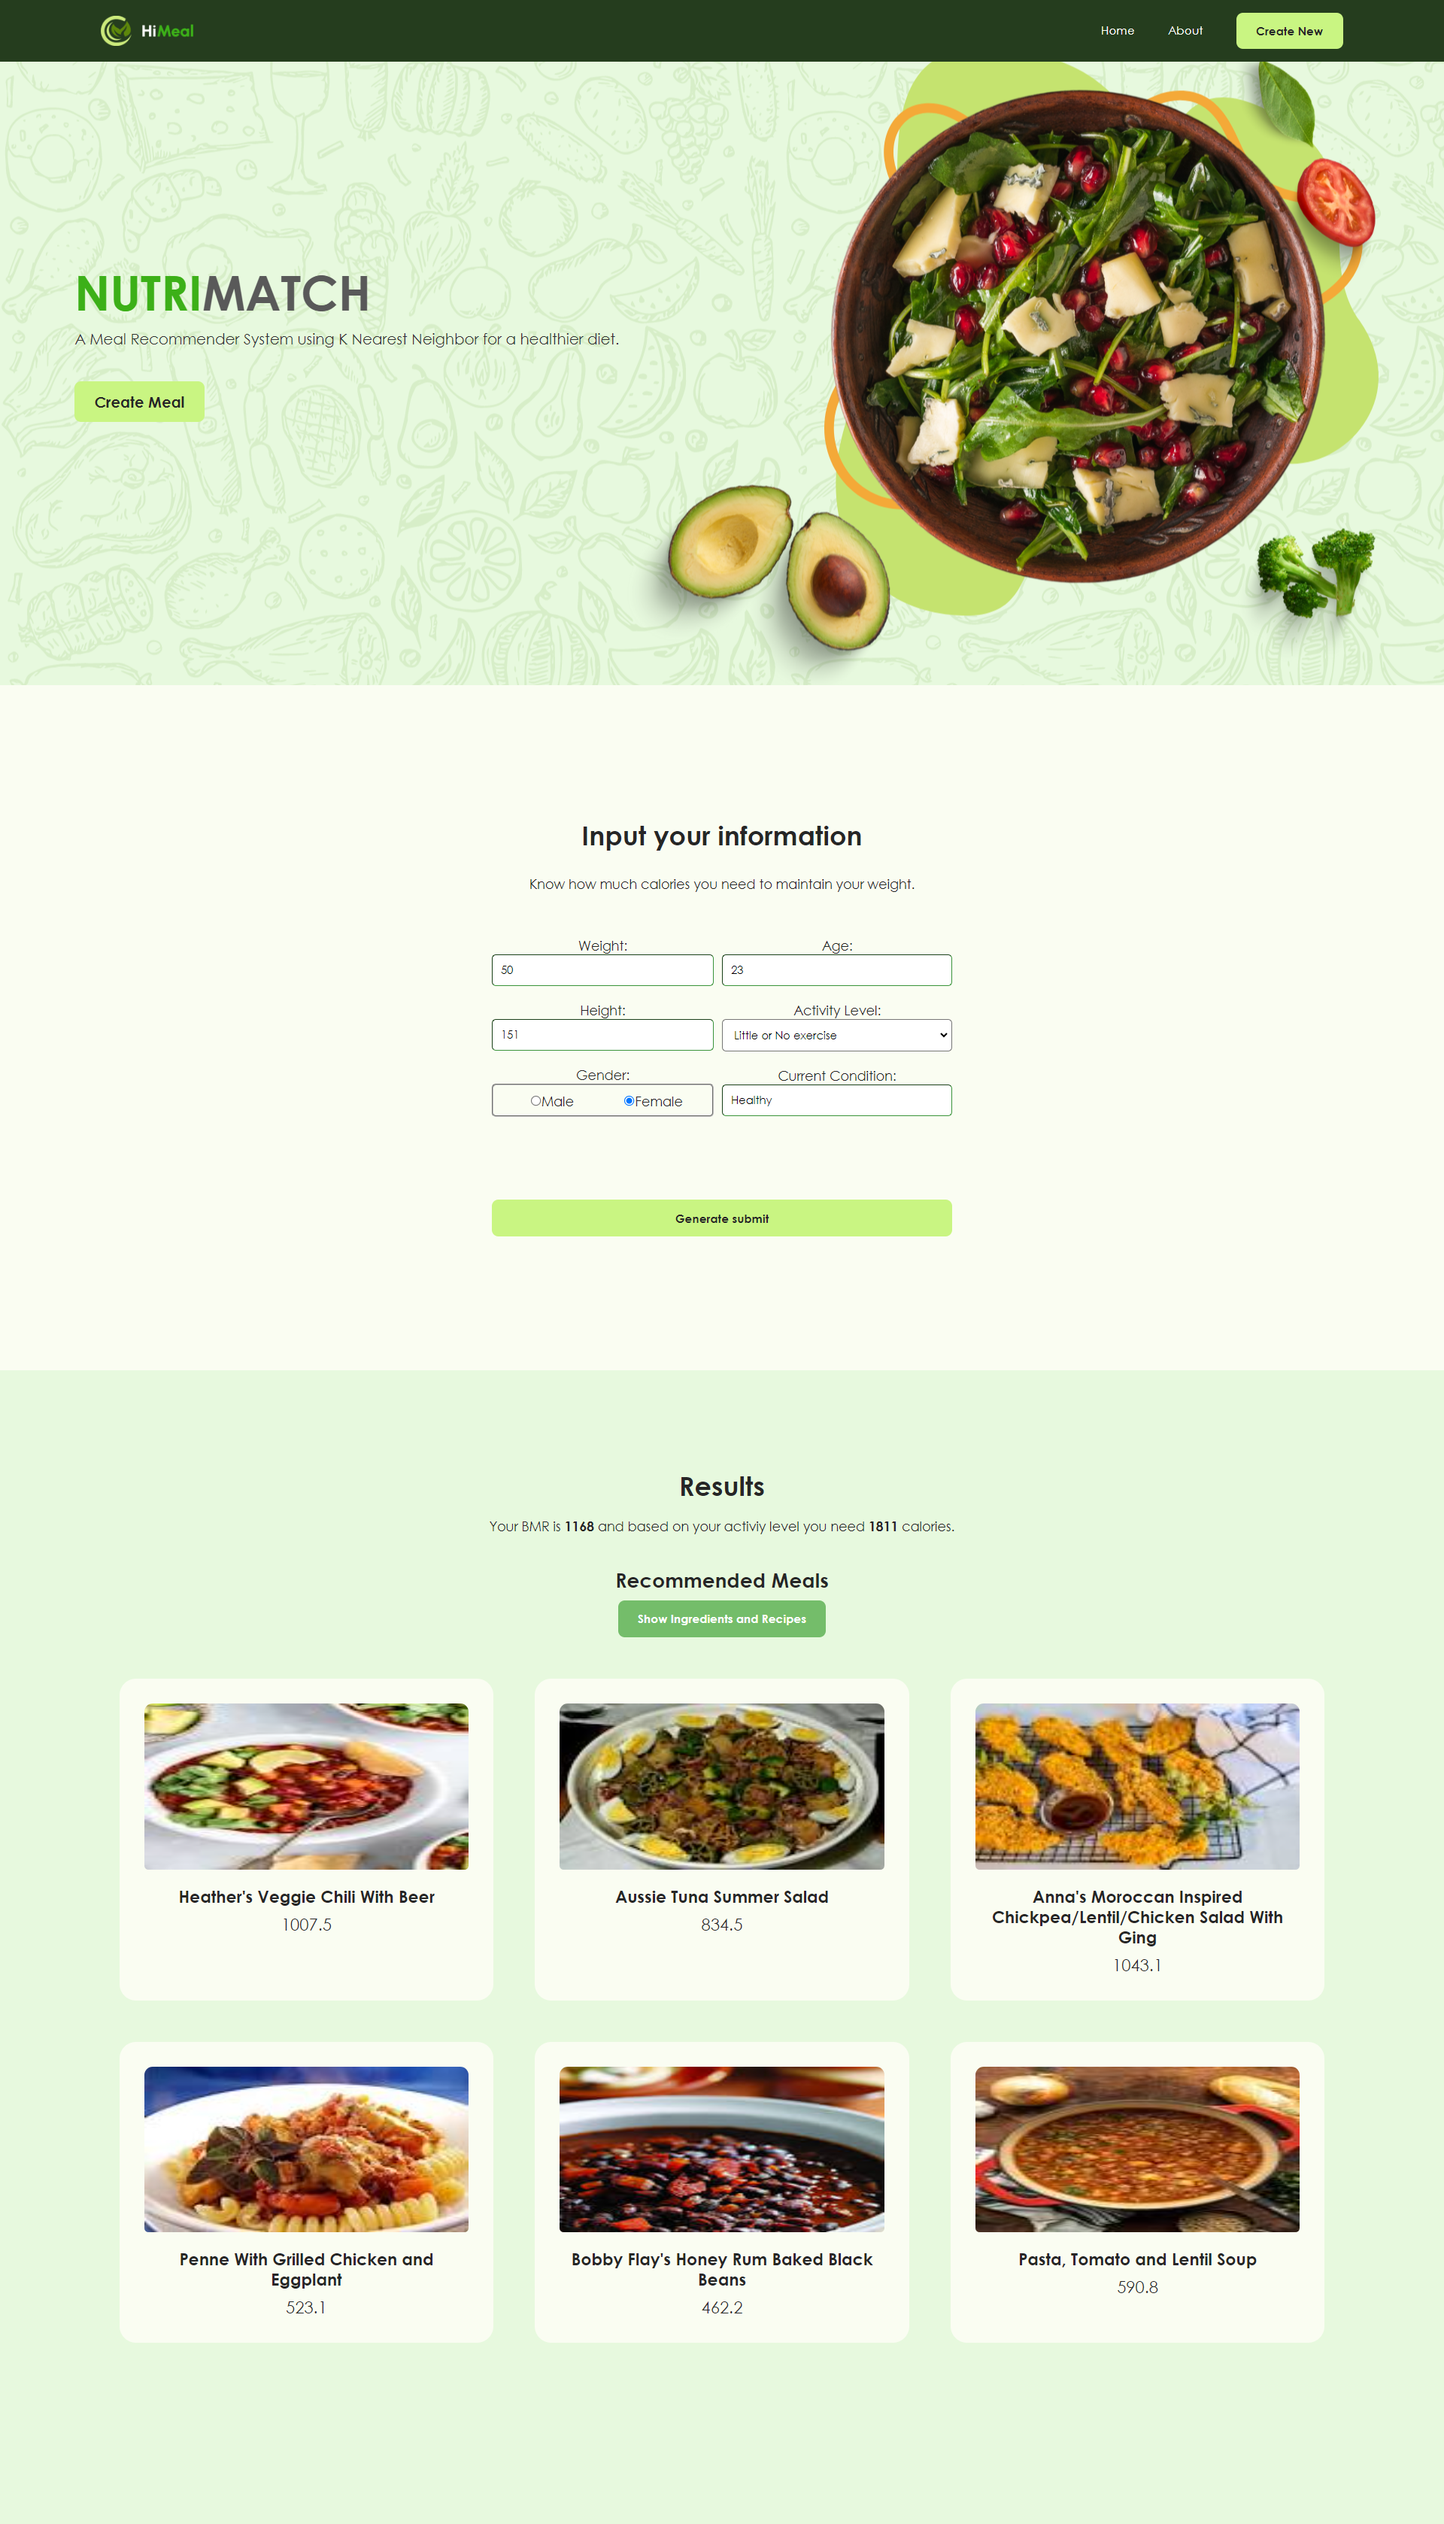
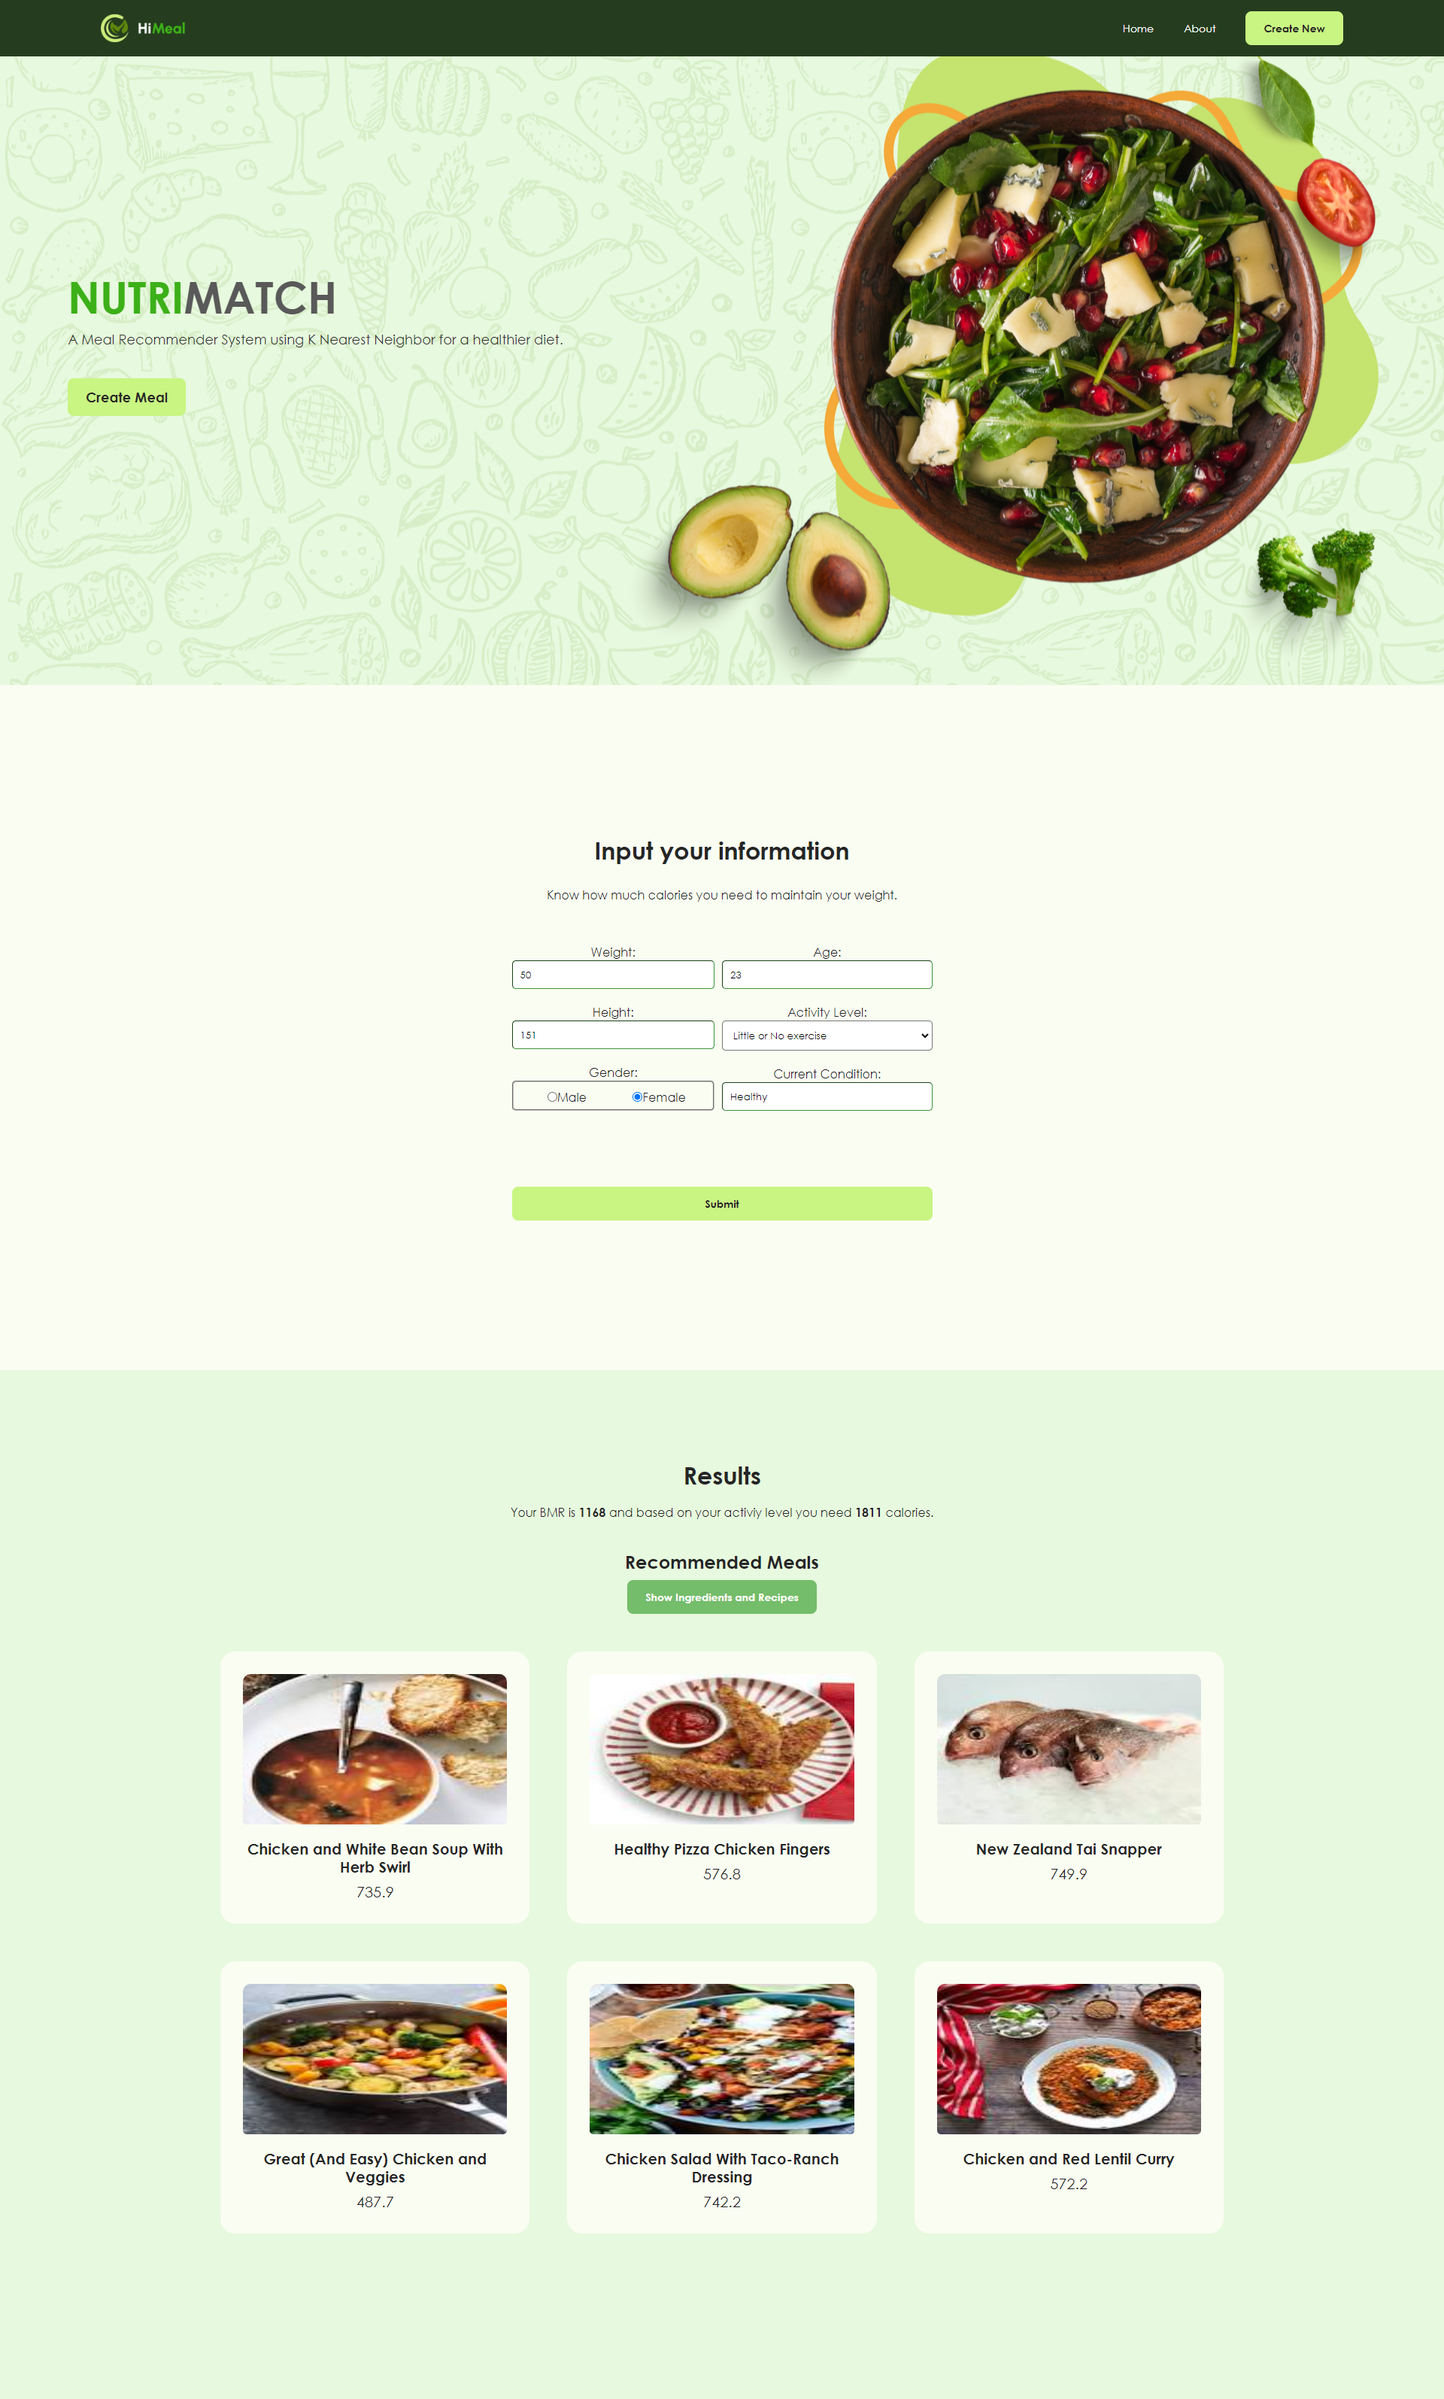
update readme

diff --git a/React_Frontend/src/Components/Input/Input.tsx b/React_Frontend/src/Components/Input/Input.tsx
@@ -221,7 +221,7 @@ const Input = () => {
             </select><br /> */}
             </div>
           </div>
-          <button type="submit">Generate submit</button>
+          <button type="submit">Submit</button>
         </form>
       </div>
     </div>
